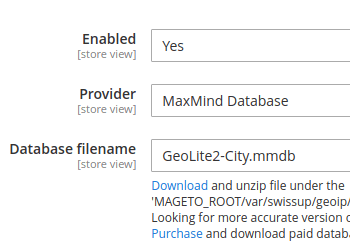
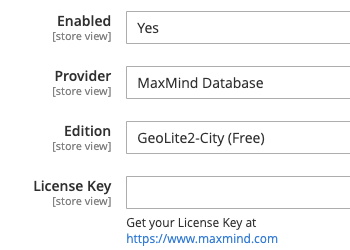
GeoIP: 1.5.0

diff --git a/m2/extensions/geoip/configuration.md b/m2/extensions/geoip/configuration.md
@@ -14,14 +14,18 @@ page.
 
 ![General Section](/images/m2/geoip/configuration/general.png)
 
-Option                    | Description
---------------------------|------------
-Enable                    | Ability to enable/disable module
-Provider                  | Choose data provider to use. Available options: MaxMind Database, MaxMind Service, IpStack.
-**MaxMind Database Options** |
-Database filename         | Database filename unpacked into `<magento_root>/var/swissup/geoip/` folder. See [MaxMind Databases](/m2/extensions/geoip/maxmind-databases/) page.
+Option                      | Description
+----------------------------|---------------------------------
+Enable                      | Ability to enable/disable module
+Provider                    | Choose data provider to use. Available options: MaxMind Database, MaxMind Service, IpStack.
+**MaxMind Database Options**|
+License Key                 | Get your License Key at [maxmind site][maxmind_license]
+Edition                     | Choose between free and paid database editions.
+Download Button             | Use the button for automatic database download. [Read more](/m2/extensions/geoip/maxmind-databases/) about databases.
 **MaxMind Service Options** |
-Account ID                | Get your Account ID at [maxmind site](https://www.maxmind.com/en/my_license_key)
-License Key               | Get your License Key at [maxmind site](https://www.maxmind.com/en/my_license_key)
-**IpStack Options**       |
-API Key                   | Get your free API key at [ipstack site](https://ipstack.com/product)
+Account ID                  | Get your Account ID at [maxmind site][maxmind_license]
+License Key                 | Get your License Key at [maxmind site][maxmind_license]
+**IpStack Options**         |
+API Key                     | Get your free API key at [ipstack site](https://ipstack.com/product)
+
+[maxmind_license]: https://www.maxmind.com/en/accounts/current/license-key

diff --git a/m2/extensions/geoip/maxmind-databases.md b/m2/extensions/geoip/maxmind-databases.md
@@ -26,29 +26,18 @@ Both database versions provide the same address information:
 The only difference is that the paid version is far more accurate and bigger
 than the free one.
 
-### Where should I put the database?
+### How to download the database?
 
-Put the database into `<magento_root>/var/swissup/geoip/` folder.
+ 1. [Sign up for a MaxMind account](https://www.maxmind.com/en/geolite2/signup) (no purchase required)
+ 2. Set your password and create a [license key](https://www.maxmind.com/en/accounts/current/license-key)
+ 3. Enter your license key in [GeoIP configuration](/m2/extensions/geoip/configuration/)
+    and press "Download Database" button.
 
-Example of how to download and unpack free database from the terminal:
+    > If you don't want to use automatic downloader for some reason, you can
+    > download the archive manually from the
+    > [GeoIP download page](https://www.maxmind.com/en/accounts/current/geoip/downloads),
+    > unpack it, and copy *.mmdb file to the <magento_root>/var/swissup/geoip directory.
+    > Then rename the database file into maxmind.mmdb.
 
-```bash
-mkdir -p var/swissup/geoip &&\
-cd var/swissup/geoip &&\
-wget http://geolite.maxmind.com/download/geoip/database/GeoLite2-City.tar.gz &&\
-mkdir mmdb && tar -xvzf GeoLite2-City.tar.gz -C mmdb --strip 1 &&\
-mv mmdb/GeoLite2-City.mmdb GeoLite2-City.mmdb &&\
-rm -rf mmdb GeoLite2-City.tar.gz &&\
-cd -
-```
-
-Make sure that the filename of downloaded database is the same as saved in
-[configuration](/m2/extensions/geoip/configuration/#general-section).
-
-> Attention!
->
-> Database will eventually become out of date.
-> It is recommended to update your database once a month.
->
-> You can add the script above in your cron schedule to perform this task
-> automatically.
+ 4. After download is completed you'll see the date of last update below
+    "Download Database" button.

diff --git a/m2/extensions/geoip/installation/marketplace.md b/m2/extensions/geoip/installation/marketplace.md
@@ -11,19 +11,7 @@ exclude_from_search: true
 
 {% include installation/m2/marketplace.html package="swissup/geoip" %}
 
-## Download latest free maxmind geolite2 database
+## Complete installation
 
-Copy and execute the following command in the terminal:
-
-```bash
-mkdir -p var/swissup/geoip &&\
-cd var/swissup/geoip &&\
-wget http://geolite.maxmind.com/download/geoip/database/GeoLite2-City.tar.gz &&\
-mkdir mmdb && tar -xvzf GeoLite2-City.tar.gz -C mmdb --strip 1 &&\
-mv mmdb/GeoLite2-City.mmdb GeoLite2-City.mmdb &&\
-rm -rf mmdb GeoLite2-City.tar.gz &&\
-cd -
-```
-
-Want to use more accurate database version? Read the
-[article](/m2/extensions/geoip/maxmind-databases/) about database types.
+Navigate to [module configuration](/m2/extensions/geoip/configuration/) to
+enable module and download or setup GeoIP database.

diff --git a/m2/extensions/geoip/installation/composer.md b/m2/extensions/geoip/installation/composer.md
@@ -11,19 +11,7 @@ exclude_from_search: true
 
 {% include installation/m2/composer.html package="swissup/geoip" %}
 
-## Download latest free maxmind geolite2 database
+## Complete installation
 
-Copy and execute the following command in the terminal:
-
-```bash
-mkdir -p var/swissup/geoip &&\
-cd var/swissup/geoip &&\
-wget http://geolite.maxmind.com/download/geoip/database/GeoLite2-City.tar.gz &&\
-mkdir mmdb && tar -xvzf GeoLite2-City.tar.gz -C mmdb --strip 1 &&\
-mv mmdb/GeoLite2-City.mmdb GeoLite2-City.mmdb &&\
-rm -rf mmdb GeoLite2-City.tar.gz &&\
-cd -
-```
-
-Want to use more accurate database version? Read the
-[article](/m2/extensions/geoip/maxmind-databases/) about database types.
+Navigate to [module configuration](/m2/extensions/geoip/configuration/) to
+enable module and download or setup GeoIP database.

diff --git a/m2/extensions/geoip/installation/manual.md b/m2/extensions/geoip/installation/manual.md
@@ -11,20 +11,7 @@ exclude_from_search: true
 
 {% include installation/m2/manual.html package="swissup/geoip" %}
 
-## Download latest free maxmind geolite2 database
+## Complete installation
 
-Copy and execute the following command in the terminal:
-
-```bash
-mkdir -p var/swissup/geoip &&\
-cd var/swissup/geoip &&\
-wget http://geolite.maxmind.com/download/geoip/database/GeoLite2-City.tar.gz &&\
-mkdir mmdb && tar -xvzf GeoLite2-City.tar.gz -C mmdb --strip 1 &&\
-mv mmdb/GeoLite2-City.mmdb GeoLite2-City.mmdb &&\
-rm -rf mmdb GeoLite2-City.tar.gz &&\
-cd -
-```
-
-Want to use more accurate database version? Read the
-[article](/m2/extensions/geoip/maxmind-databases/) about database types.
-
+Navigate to [module configuration](/m2/extensions/geoip/configuration/) to
+enable module and download or setup GeoIP database.

diff --git a/m2/extensions/geoip/changelog.md b/m2/extensions/geoip/changelog.md
@@ -8,6 +8,19 @@ category: Geoip
 
 # Changelog
 
+### Version 1.5.0
+
+> May 8, 2020
+
+ -  You can now [download and update](/m2/extensions/geoip/configuration/) MaxMind
+    database in just one click.
+
+    > Database is now stored in `<magento_root>/var/swissup/geoip/maxmind.mmdb` file.
+    >
+    > In order to keep GeoIP functionality working for our existing customers,
+    > we use a fallback to the configured filename (GeoLite2-City.mmdb by default)
+    > in the same directory if maxmind.mmdb is not found.
+
 ### Version 1.4.0
 
 > Jan 8, 2020
